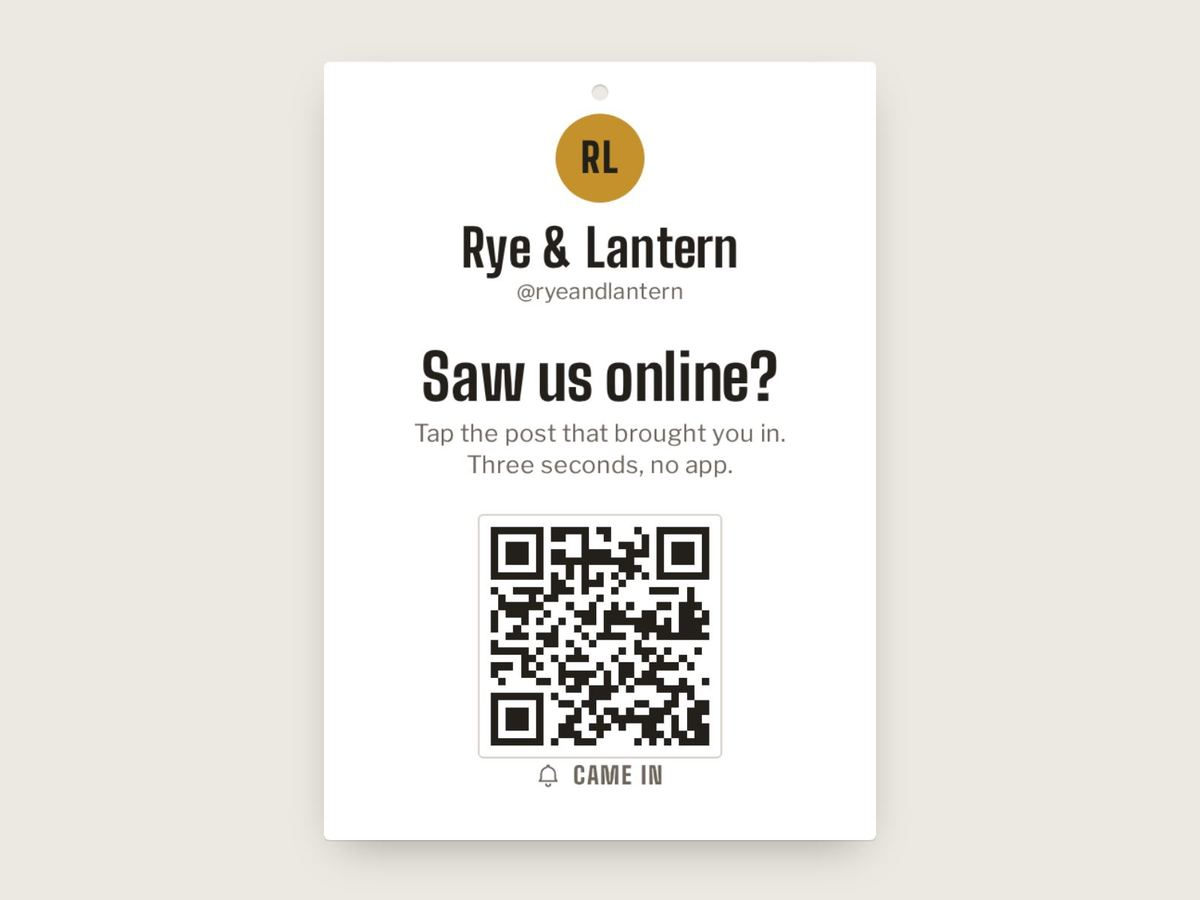
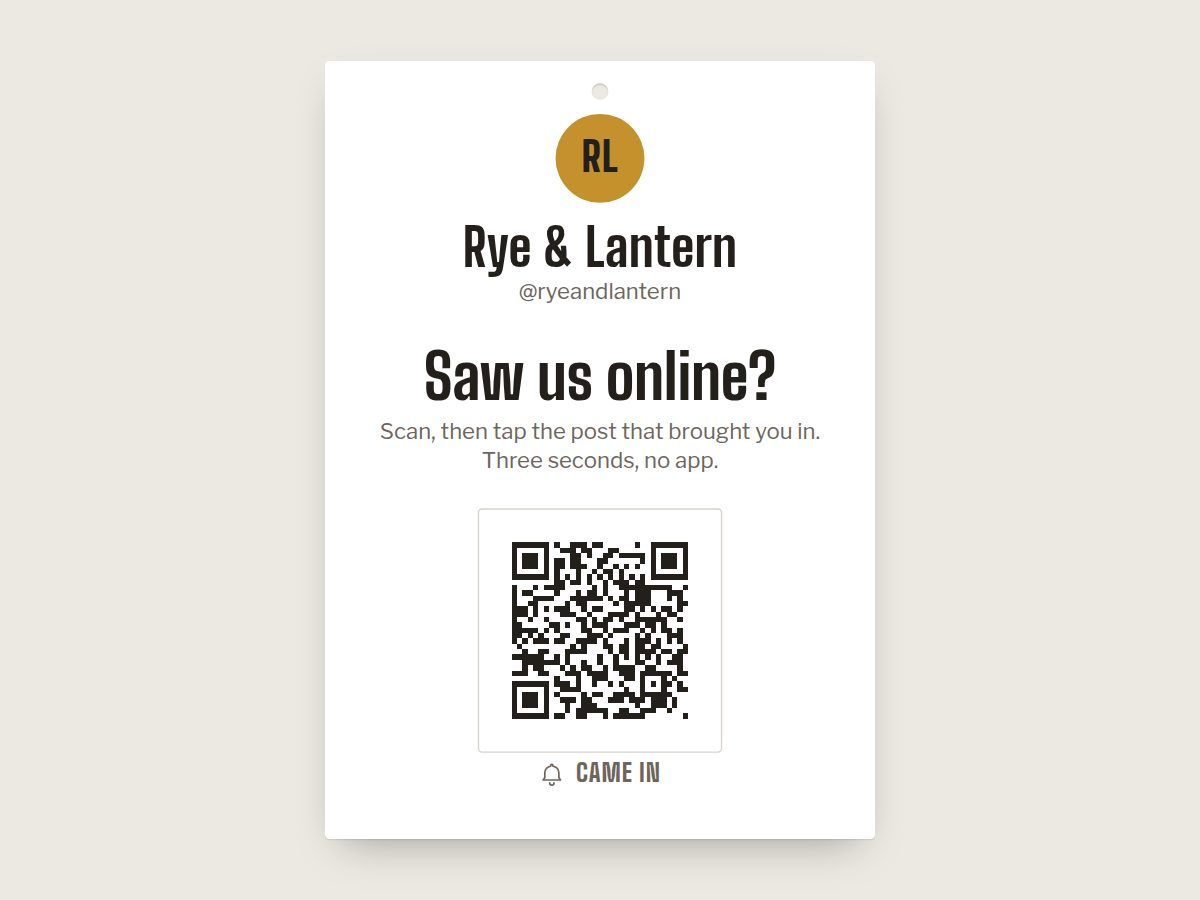
Round six: At your counter, the card says Scan then tap, Ring my phone result scrolls into view (#18)
Claude-Session: https://claude.ai/code/session_01AJxnNf9Ug6uxYGyNkrRYsx

diff --git a/src/app/pages/Setup.tsx b/src/app/pages/Setup.tsx
@@ -1,11 +1,12 @@
 // Setup (plan 3.8; P10). Every section saves and reloads; the checklist's
 // chips open their sections by hash.
 import type { JSX } from "preact";
-import { useEffect, useState } from "preact/hooks";
+import { useEffect, useRef, useState } from "preact/hooks";
 import type { WallData, ChannelRow, Theme } from "@shared/types";
 import { serviceName } from "@shared/marks";
 import { api, ApiError } from "../lib/api";
 import { applyTheme } from "../lib/theme";
+import { scrollIntoRoom } from "../lib/scroll";
 import { deviceId } from "../lib/device";
 import { ringMyPhone, initialPhoneState, thisPhoneRings, isIOS, type PhoneState } from "../lib/push";
 import { HeaderSkeleton, TilesSkeleton } from "../ui/Skeleton";
@@ -533,7 +534,17 @@ function RingMyPhone({ sample, pushKey, onDone }: { sample: boolean; pushKey: st
     if (sample) return;
     void thisPhoneRings().then((yes) => yes && setState((s) => (s === "idle" ? "ok" : s)));
   }, []);
+  // The result and Now try a tap sit below the button, so on a phone they start behind the bottom bar:
+  // after a tap, bring them into view (EaseBot, round 6, task 6 phone).
+  const result = useRef<HTMLDivElement>(null);
+  const pressed = useRef(false);
+  useEffect(() => {
+    if (state !== "ok" || !pressed.current) return;
+    const id = requestAnimationFrame(() => scrollIntoRoom(result.current));
+    return () => cancelAnimationFrame(id);
+  }, [state]);
   async function go() {
+    pressed.current = true;
     if (sample) {
       setState("ok");
       await api("/api/sample/phone", { method: "POST" }).catch(() => undefined);
@@ -558,12 +569,16 @@ function RingMyPhone({ sample, pushKey, onDone }: { sample: boolean; pushKey: st
           Ring my phone
         </button>
       )}
-      {state === "ok" && <p class="small has-hint">{sample ? "This browser will ring. In your own shop, open Came In on your phone and tap Ring my phone there, and your phone rings." : "Your phone will ring."}</p>}
-      {state === "ok" && sample && (
-        <a class="btn now-try" href="/sample?try=1">
-          <Icon name="phone" size={18} />
-          Now try a tap
-        </a>
+      {state === "ok" && (
+        <div ref={result}>
+          <p class="small has-hint">{sample ? <><b>This browser will ring.</b> In your own shop, open Came In on your phone and tap Ring my phone there, and your phone rings.</> : "Your phone will ring."}</p>
+          {sample && (
+            <a class="btn now-try" href="/sample?try=1">
+              <Icon name="phone" size={18} />
+              Now try a tap
+            </a>
+          )}
+        </div>
       )}
       {state === "ok" && !sample && <p class="caption muted sound-hint">If it only buzzes, open your phone's notification settings for Came In and turn sound on.</p>}
       {state === "denied" && <p class="small">Notifications are blocked for Came In on this device. Allow them in this browser's or phone's settings, then tap Ring my phone again.</p>}

diff --git a/src/worker/render/card.ts b/src/worker/render/card.ts
@@ -52,7 +52,7 @@ body{background:var(--paper-2)}
 .card .loc{font-size:calc(12 * var(--u));line-height:1.2;font-weight:600;color:#231F1B;margin:0 0 calc(22 * var(--u))}
 .sizes .lab{font-size:14px;font-weight:600;color:var(--ink-2);align-self:center;margin-right:4px}
 .card .ask{font-family:var(--fd);font-weight:700;font-size:calc(34 * var(--u));line-height:.98;letter-spacing:-.005em;margin:0 0 calc(6 * var(--u))}
-.card .sub{font-size:calc(13 * var(--u));color:#6E665D;margin:0 0 calc(18 * var(--u));line-height:1.3}
+.card .sub{font-size:calc(12 * var(--u));color:#6E665D;margin:0 0 calc(18 * var(--u));line-height:1.3;white-space:nowrap}
 .card .qr{width:calc(132 * var(--u));height:calc(132 * var(--u));border:1px solid #D8D3CA;border-radius:3px;padding:calc(6 * var(--u));background:#FFF;flex:none}
 .card .qr svg{width:100%;height:100%;display:block;shape-rendering:crispEdges}
 .card .ci{margin-top:auto;line-height:1;display:inline-flex;align-items:center;gap:calc(6 * var(--u));font-family:var(--fd);font-weight:800;font-size:calc(13 * var(--u));letter-spacing:.04em;text-transform:uppercase;color:#6E665D}
@@ -83,7 +83,7 @@ ${avatarHtml(d.shop.name, d.shop.avatarUrl, 48)}
 <div class="nm">${esc(d.shop.name)}</div>
 ${d.shop.handle ? `<div class="hn${d.locationName ? " tight" : ""}">@${esc(d.shop.handle)}</div>` : `<div class="hn${d.locationName ? " tight" : ""}"></div>`}${d.locationName ? `<div class="loc">${esc(d.locationName)}</div>` : ""}
 <p class="ask">Saw us online?</p>
-<p class="sub">Tap the post that brought you in.<br>Three seconds, no app.</p>
+<p class="sub">Scan, then tap the post that brought you in.<br>Three seconds, no app.</p>
 <div class="qr" aria-label="QR code for the tap page">${d.qrSvg}</div>
 <div class="ci">${BELL_MONO_SVG}<span>Came In</span></div>
 </div></main>

diff --git a/tests/phase3.test.ts b/tests/phase3.test.ts
@@ -55,9 +55,9 @@ describe("This week's words (P11, plan 1.7 and 3.7)", () => {
 
   it("the ratio line: counter taps only, at least 10, 1 in N or the reduced fraction", () => {
     expect(ratioLine(9, 3)).toBeNull();
-    expect(ratioLine(16, 4)).toBe("1 in 4 new customers who told us came because of a post.");
-    expect(ratioLine(12, 3)).toBe("1 in 4 new customers who told us came because of a post.");
-    expect(ratioLine(8 + 4, 9)).toBe("3 in 4 new customers who told us came because of a post.");
+    expect(ratioLine(16, 4)).toBe("At your counter, 1 in 4 new customers who told us came because of a post.");
+    expect(ratioLine(12, 3)).toBe("At your counter, 1 in 4 new customers who told us came because of a post.");
+    expect(ratioLine(8 + 4, 9)).toBe("At your counter, 3 in 4 new customers who told us came because of a post.");
     expect(ratioLine(10, 0)).toBeNull();
     // Card taps never count toward the ratio.
     const s = summarize([...Array(10)].map(() => tap("a", "post", "card")), tiles(), TZ, "this");
@@ -92,7 +92,7 @@ describe("This week's words (P11, plan 1.7 and 3.7)", () => {
       { label: "A friend told them", n: 4 },
       { label: "Found us on Google", n: 2 },
     ]);
-    expect(d.summary.ratio).toMatch(/^1 in \d+ new customers who told us came because of a post\.$/);
+    expect(d.summary.ratio).toMatch(/^At your counter, 1 in \d+ new customers who told us came because of a post\.$/);
     for (const t of d.tiles) expect(t.weekPeople).toBeLessThanOrEqual(t.count);
     // On every day of a week, each post's history adds up to its sticker and never comes before it was sent.
     for (let day = 0; day < 7; day++) {

diff --git a/tests/round5-changes.test.ts b/tests/round5-changes.test.ts
@@ -31,12 +31,25 @@ describe("3.9 the Post it again line names the post", () => {
   });
 });
 
+describe("round 6 words", () => {
+  it("the card's second line is two nowrap lines at 12 units", async () => {
+    const card = (await import("../src/worker/render/card.ts?raw")).default as string;
+    expect(card).toContain("Scan, then tap the post that brought you in.<br>Three seconds, no app.");
+    expect(card).toMatch(/\.card \.sub\{font-size:calc\(12 \* var\(--u\)\);[^}]*white-space:nowrap\}/);
+  });
+});
+
 describe("source: the screens use them", () => {
   it("3.10 Ring my phone result words and Now try a tap", () => {
     const setup = setupSrc;
-    expect(setup).toContain("This browser will ring. In your own shop, open Came In on your phone and tap Ring my phone there, and your phone rings.");
+    expect(setup).toContain("<b>This browser will ring.</b> In your own shop, open Came In on your phone and tap Ring my phone there, and your phone rings.");
     expect(setup).toContain("Now try a tap");
     expect(setup).toContain('href="/sample?try=1"');
+  });
+  it("3.10 the Ring my phone result is scrolled clear of the bottom bar after a press", () => {
+    expect(setupSrc).toContain("scrollIntoRoom(result.current)");
+    expect(setupSrc).toContain("pressed.current = true");
+    expect(setupSrc).toMatch(/<div ref=\{result\}>[\s\S]*Now try a tap/);
   });
   it("3.10 a tap in the sheet holds the ring until the sheet closes", () => {
     const wall = wallSrc;

diff --git a/src/worker/render/site.ts b/src/worker/render/site.ts
@@ -63,7 +63,7 @@ export function renderLanding(opts: { error?: "denied" | "exchange" | "signedout
 <div class="cap">Connect Buffer takes you to Buffer to sign in. Came In only reads your posts and channels.</div>
 <div class="cap free">Free for one location. <a href="/pricing">Pricing</a></div></section>
 <section class="loop" aria-label="How it works">
-<figure><img src="/landing/card.jpg" alt="The printed card on a shop counter: Saw us online? Tap the post that brought you in." width="800" height="600" loading="lazy"><figcaption>The card on your counter.</figcaption></figure>
+<figure><img src="/landing/card.jpg" alt="The printed card on a shop counter: Saw us online? Scan, then tap the post that brought you in." width="800" height="600" loading="lazy"><figcaption>The card on your counter.</figcaption></figure>
 <figure><img src="/landing/tap.jpg" alt="A phone showing the shop's posts as tiles to tap." width="800" height="600" loading="lazy"><figcaption>A customer taps the post they saw.</figcaption></figure>
 <figure><img src="/landing/bell.jpg" alt="The shop's wall with the bell banner: Someone just came in because of Tuesday's sourdough post." width="800" height="600" loading="lazy"><figcaption>Your phone rings.</figcaption></figure>
 </section>

diff --git a/src/shared/week.ts b/src/shared/week.ts
@@ -43,7 +43,7 @@ function gcd(a: number, b: number): number {
 }
 
 /**
- * The ratio line (plan 1.7): counter taps only, at least 10 in the window.
+ * The ratio line (plan 1.7, round 6: starts "At your counter,"): counter taps only, at least 10 in the window.
  * "1 in N" with N = round(all ÷ post taps); if post taps are the majority,
  * the reduced fraction.
  */
@@ -51,9 +51,9 @@ export function ratioLine(counterAll: number, counterPost: number): string | nul
   if (counterAll < 10 || counterPost === 0) return null;
   if (counterPost * 2 > counterAll) {
     const g = gcd(counterPost, counterAll);
-    return `${counterPost / g} in ${counterAll / g} new customers who told us came because of a post.`;
+    return `At your counter, ${counterPost / g} in ${counterAll / g} new customers who told us came because of a post.`;
   }
-  return `1 in ${Math.round(counterAll / counterPost)} new customers who told us came because of a post.`;
+  return `At your counter, 1 in ${Math.round(counterAll / counterPost)} new customers who told us came because of a post.`;
 }
 
 const BUCKET_WORDS: Record<TimeBucket, [string, string]> = {

diff --git a/tests/phase2.test.ts b/tests/phase2.test.ts
@@ -133,7 +133,7 @@ describe("the printed card (P8, plan 3.11)", () => {
     const a6 = await (await call("/card", { cookie })).text();
     expect(a6).toContain("@page{size:105mm 148mm;margin:0}");
     expect(a6).toContain(".card{width:105mm;height:148mm");
-    for (const w of ["Saw us online?", "Tap the post that brought you in.<br>Three seconds, no app.", "Came In", "Print", "Save as PDF", "@testbakery"]) expect(a6).toContain(w);
+    for (const w of ["Saw us online?", "Scan, then tap the post that brought you in.<br>Three seconds, no app.", "Came In", "Print", "Save as PDF", "@testbakery"]) expect(a6).toContain(w);
     expect(a6).toMatch(/<div class="qr"[^>]*><svg[^>]*viewBox="0 0 \d+ \d+"/);
     expect(a6).not.toContain("prefers-color-scheme:dark");
     const a5 = await (await call("/card?size=a5", { cookie })).text();

diff --git a/src/app/app.css b/src/app/app.css
@@ -303,6 +303,7 @@ nav.bottombar { display: none; }
 .setup-hold { min-height: 60vh; background: var(--paper-2); border-radius: var(--r-tile); }
 .sound-hint { margin: 4px 0 0; font-size: 13px; color: var(--ink-2); }
 p.small.has-hint { margin-bottom: 0; }
+p.small.has-hint b { font-weight: 600; }
 .tile { container-type: inline-size; }
 .tile .b-short { display: none; }
 @container (max-width: 179px) { .tile .b-long { position: absolute; width: 1px; height: 1px; overflow: hidden; clip: rect(0 0 0 0); white-space: nowrap; } .tile .b-short { display: inline; } }
